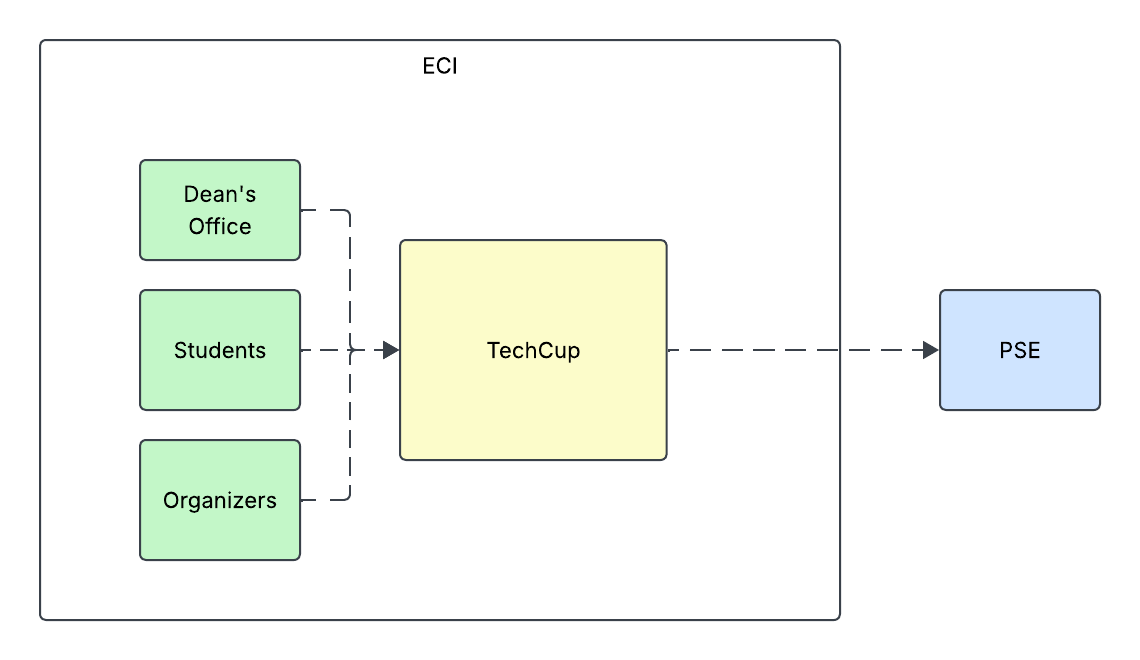
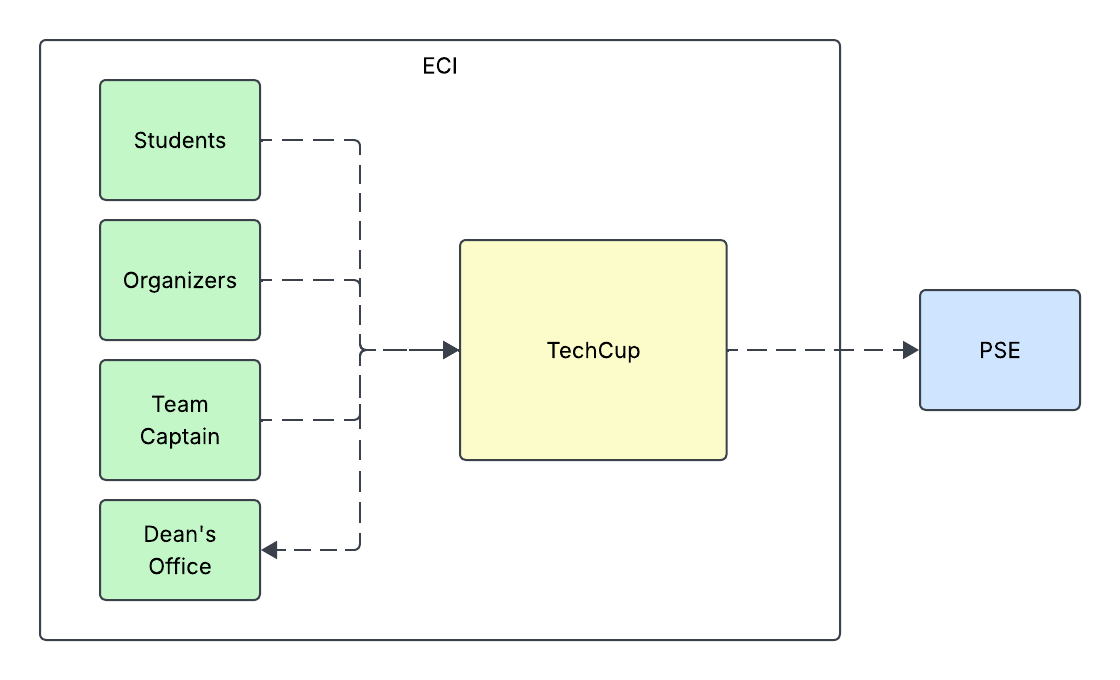
docs: modifying the context diagram and writing the scope

Changed region(s): [[0.0625, 0.0909, 0.6562, 0.9091], [0.0312, 0.0303, 0.9688, 0.9697], [0.875, 0.4848, 0.9375, 0.5455]]

diff --git a/docs/requirements/scope.md b/docs/requirements/scope.md
@@ -2,44 +2,43 @@
 
 ## 1. Sistema
 
-* Nombre del sistema:
-* Objetivo: El sistema tiene como objetivo: (Indicar el objetivo del sistema de Bankify)
+* Nombre del sistema: TechCup
+* Objetivo: El sistema tiene como objetivo: Permitir la creación de torneos de fútbol y la gestión del registro y pago de inscripción de los equipos participantes de los progamas de la Escuela.
 
 ## 2. Problema a resolver
-< Describir el problema principal a resolver del Caso de Estudio>
+Actualmente la Escuela no cuenta con un sistema centralizado para crear torneos, registrar equipos, procesar y validar pagos, ni generar reportes hacia la Decanatura, lo que hace el proceso manual, lento y propenso a errores.
 
 ## 3. Diagrama de Contexto
 
 ### 3.1 Diagrama
 
-Relacionar imagen del diagrama de contexto realizado
+![Imagen Diagrama de contexto](../uml/Diagrama%20de%20Contexto%20TechCup.png)
 
 ### 3.2 Actores
 
-<En el siguiente cuadro, mapee los actores o roles identificados del sistema>
-<El primer rol es de ejemplo>
-
 | Actor / Rol                        |          Descripción              |
 |------------------------------------|:---------------------------------:|
-| Usuario final                      | Cliente del sistema de Bankify    |
-|                                    |                                   |
+| Estudiante                      | Usuario que se autentica en la plataforma  |
+| Capitán del equipo        |  Usuario que crea el equipo, realiza el pago y lo inscribe a un torneo              |
+| Organizador  | Usuario de administra torneos, valida pagos, aprueva registros y genera reportes  |
+| Decanatura   | Recibe los reportes de pago de la inscripcion |
 
 ### 3.3 Sistemas externos
 
-<En el siguiente cuadro, mapee los sistemas externos que interactúan con el sistema de Bankify>
-<El primer sistema es de ejemplo>
-
 | Sistema                            |                                    Descripción                                        |
 |------------------------------------|:-------------------------------------------------------------------------------------:|
-| Reportes                           | Sistema que genera los reportes tributarios de cada cliente del sistema de Bankify    |
-|                                    |                                                                                       |
+| PSE                         | Pasarela de pago externa que procesa el pago de un equipo    |
 
 ## 4. Alcance del sistema
-   
+
 ### 4.1 Dentro del sistema
-
-Funciones que el sistema sí realiza (Relacione al menos 4).
-
+* El sistema permite a los organizadores crear un torneo, cambiar su estado y modificar su información.
+* El sistema permite a los capitanes crear equipos, registrar sus miembros, modificar la información del equipo y realizar el pago de inscripción.
+* El sistema permite a los organizadores consultar y verificar los pagos realizados por los equipos.
+* El sistema permite a los organizadores aprobar las inscripciones de los equipos.
+* El sistema permite generar reportes de los equipos inscritos y de los ingresos obtenidos por concepto de inscripción.
+* El sistema permite el inicio de sesión de organizadores y estudiantes.
 ### 4.2 Fuera del sistema
-
-Funciones que no realiza (Relacione al menos 3).
+* El sistema no permite tener más de un torneo activo simultáneamente.
+* El sistema no cuenta con soporte técnico.
+* El sistema no permite tener un torneo con más de un día de duración.
